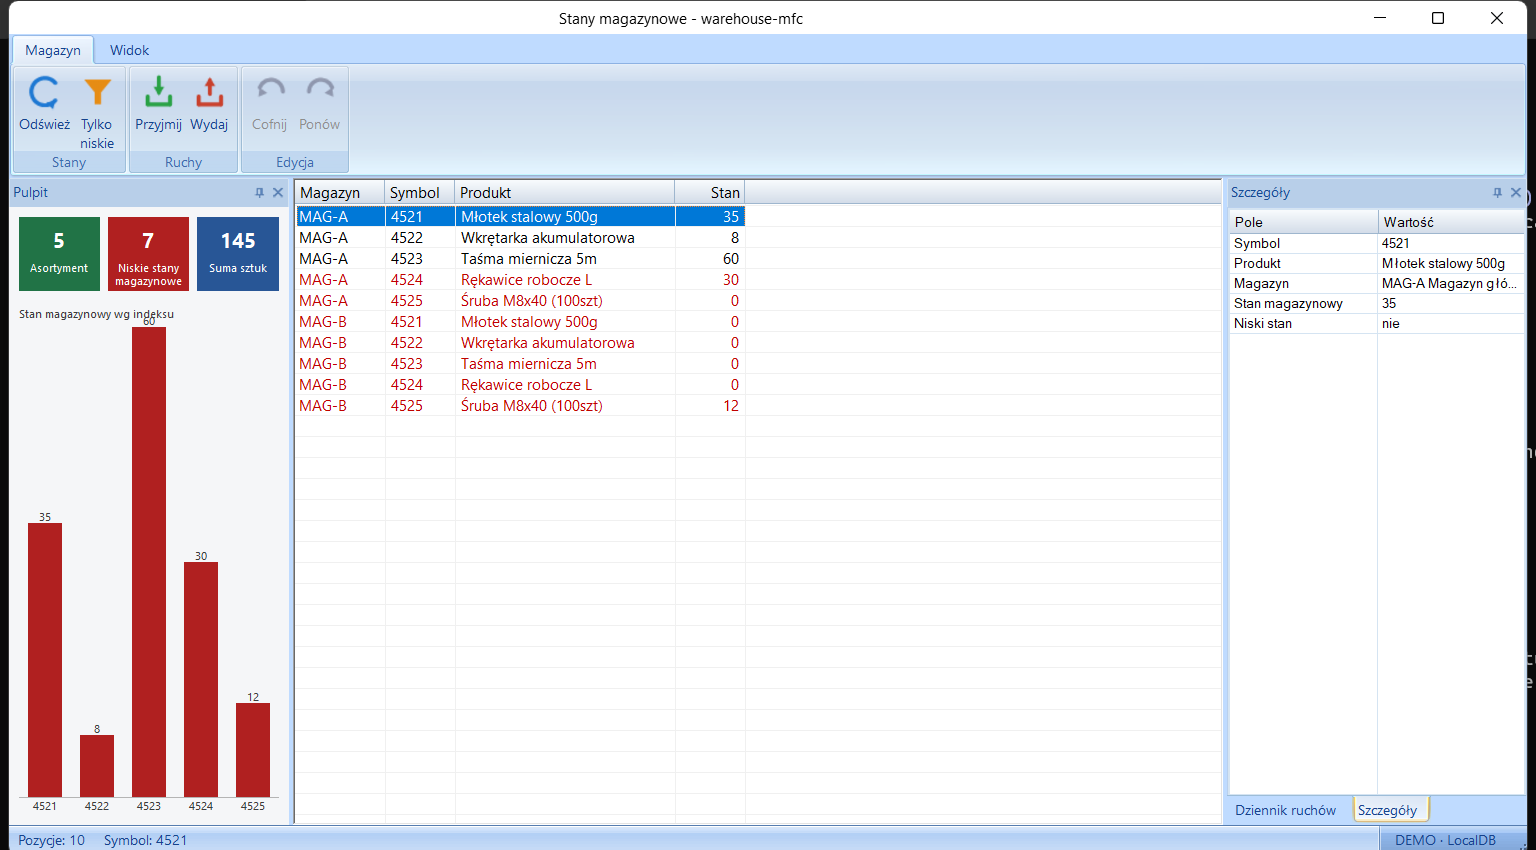
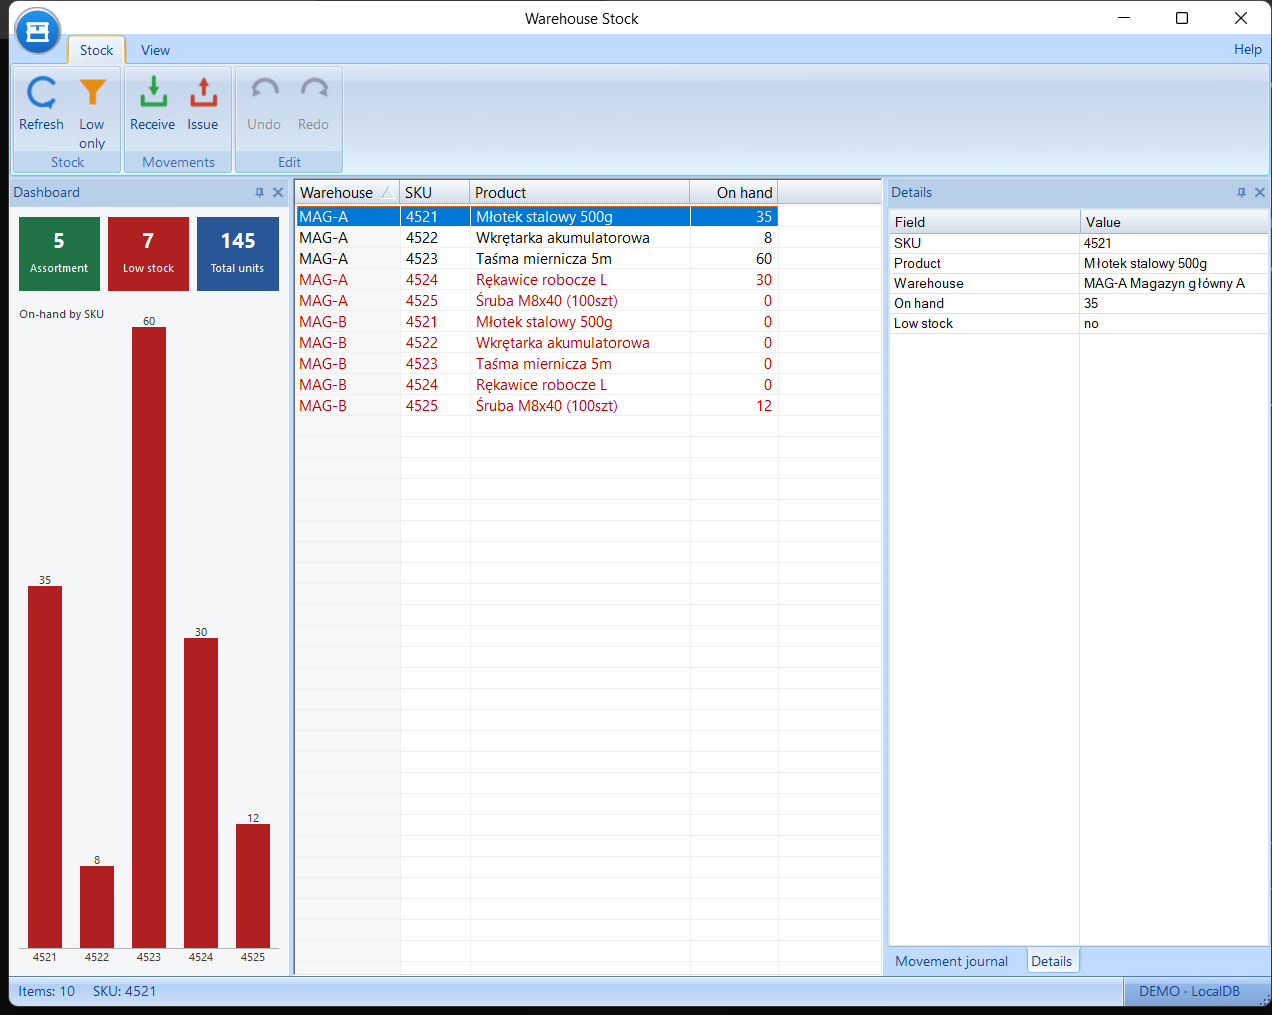
README: switch the hero screenshots to the English UI
Recapture 04-feature-pack, 02-dark-theme and 03-record-dialog in the English build (via
demo_gif.ps1 -Lang en, right-edge bleed cropped) so the static shots match the English GIF.
Update the Screenshots prose to the English labels (Stock/View, Dashboard, Details/Movement
journal) and the dark-theme menu path. Product names stay Polish, since they're database data.
The Polish demo.gif stays as the "also in Polish" link.

Changed region(s): [[0.0, 0.0, 1.0, 1.0]]

diff --git a/README.md b/README.md
@@ -31,13 +31,13 @@ desktop development.
 ## Screenshots
 ![Ribbon UI + dashboard + docked panes](docs/screenshots/04-feature-pack.png)
 
-The MFC Feature Pack UI. The ribbon carries icon glyphs on its *Magazyn* and *Widok* tabs (Stock
-and View). The owner-drawn *Pulpit* (dashboard) pane shows KPI tiles and an on-hand bar chart, the
-stock grid draws low-stock rows in red with the real Polish names, and the *Szczegóły* and *Dziennik
-ruchów* panes (Details and Movement-log) share a tab group. Along the bottom, a `CMFCRibbonStatusBar`
-shows the row count, the selected symbol, and the connection profile.
+The MFC Feature Pack UI. The ribbon has icon glyphs on its Stock and View tabs. The owner-drawn
+Dashboard pane shows KPI tiles and an on-hand bar chart, the stock grid draws low-stock rows in red
+(product names stay Polish, since they're data), and the Details and Movement journal panes share a
+tab group. Along the bottom, a `CMFCRibbonStatusBar` shows the row count, the selected symbol, and
+the connection profile.
 
-| Dark theme (Widok → Motyw → Ciemny, i.e. View → Theme → Dark) | Record movement (DDX/DDV) |
+| Dark theme (View → Theme → Dark) | Record movement (DDX/DDV) |
 |---|---|
 | ![Dark theme](docs/screenshots/02-dark-theme.png) | ![Record dialog](docs/screenshots/03-record-dialog.png) |
 